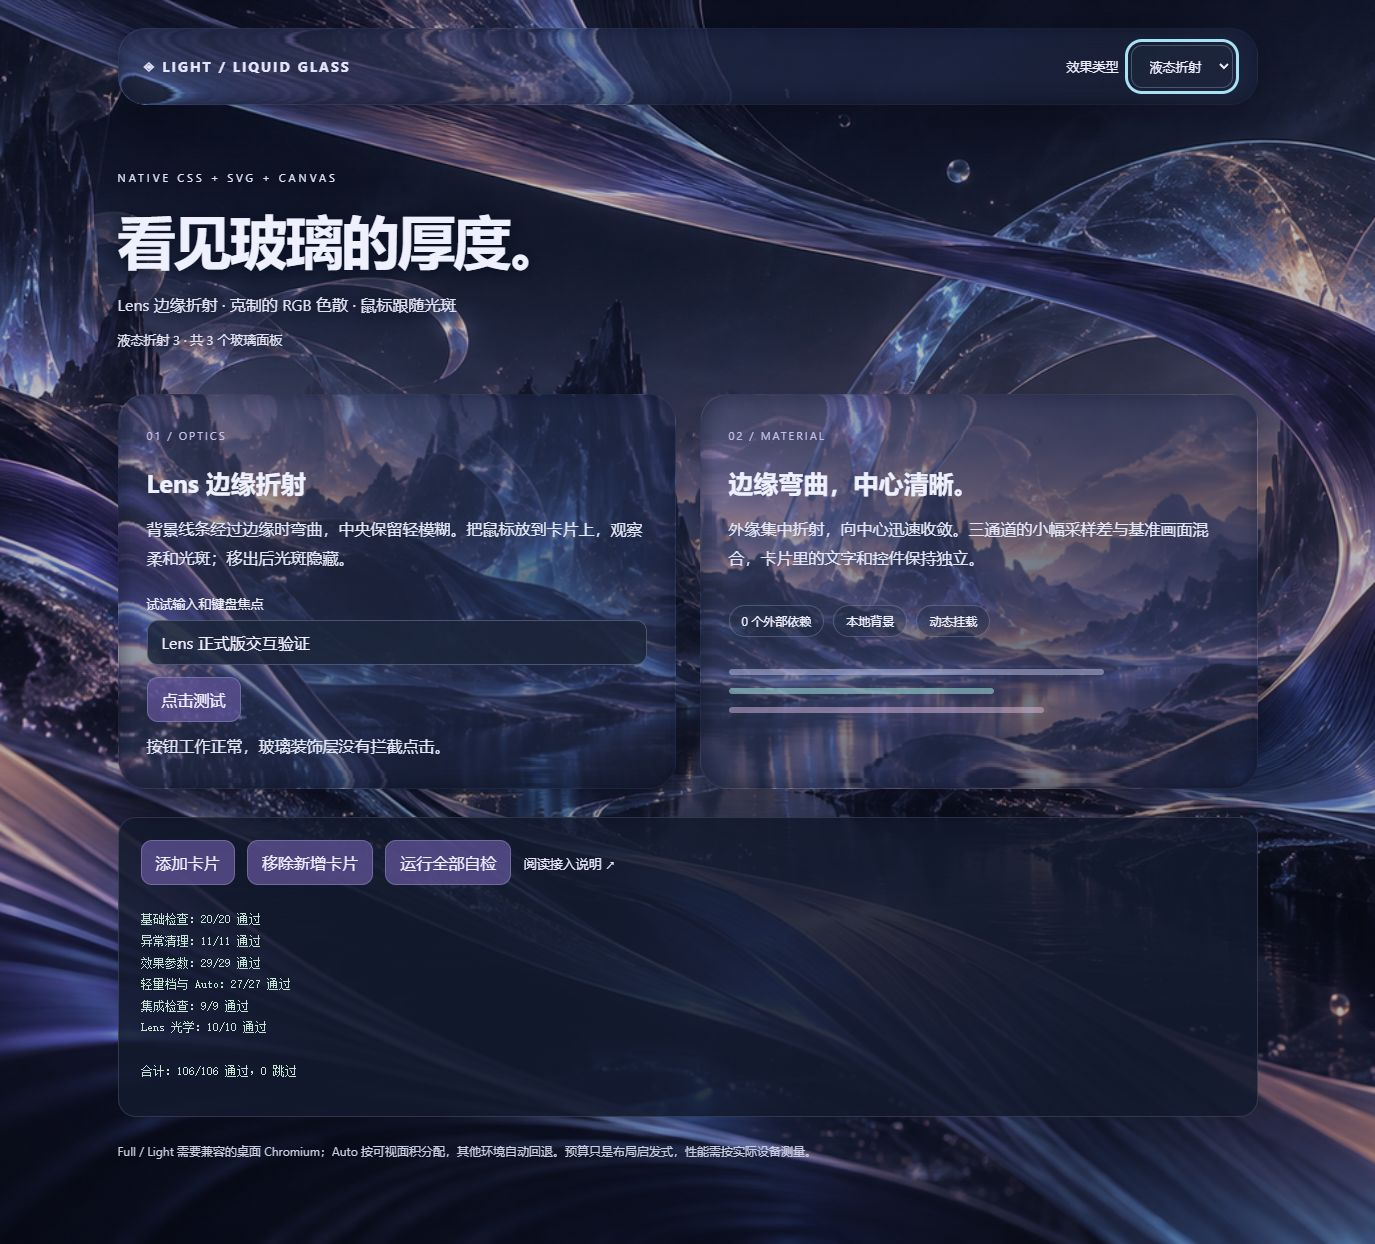
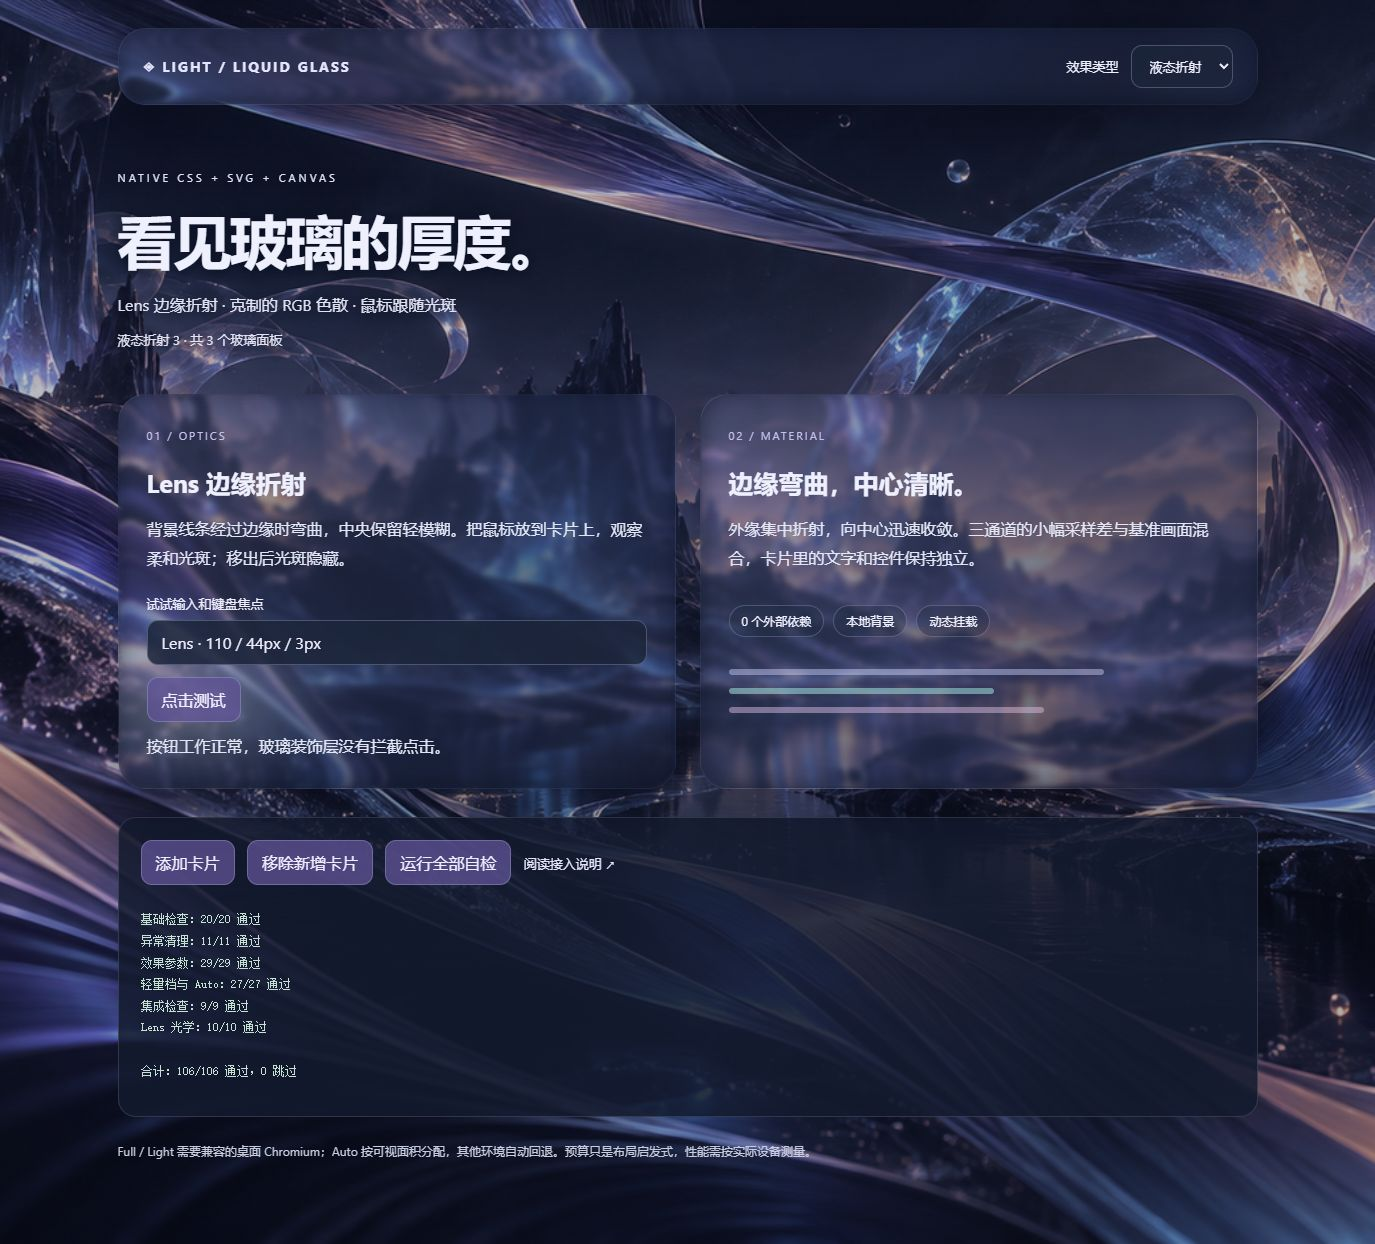
Tune Lens defaults for stronger narrow refraction and 3px blur

Changed region(s): [[0.0611, 0.4887, 0.2138, 0.6109], [0.7331, 0.6109, 0.8247, 0.6415], [0.8858, 0.0305, 0.9164, 0.0611]]

diff --git a/demo/lens-checks.js b/demo/lens-checks.js
@@ -28,26 +28,26 @@ export async function runLensChecks(output) {
     const ctx = canvas.getContext('2d', { willReadFrequently: true }); ctx.drawImage(image, 0, 0);
     const pixels = ctx.getImageData(0, 0, 320, 220).data;
     const green = y => pixels[(y * 320 + 160) * 4 + 1];
-    // 像素中心距边缘 .5px / 29.5px，带宽 58px，固定样本防止退回宽弧面。
-    check('Lens 外缘采样符合圆形曲线', green(0) === 218);
-    check('Lens 中段采样迅速收敛', green(29) === 141);
+    // 像素中心距边缘 .5px / 29.5px，带宽 44px，固定样本防止退回宽弧面。
+    check('Lens 外缘采样符合圆形曲线', green(0) === 216);
+    check('Lens 中段采样迅速收敛', green(29) === 134);
     const scales = () => [...filterOf(card).querySelectorAll('feDisplacementMap')].map(n => Number(n.getAttribute('scale')));
     const blend = () => filterOf(card).lastElementChild;
     const full = scales();
-    check('默认色散保持绿色基准且总分离低于 0.33', full.length === 3 && full[0] < 96 && full[1] === 96 && full[2] > 96 && full[2] - full[0] < .33);
+    check('默认色散保持绿色基准且总分离低于 0.37', full.length === 3 && full[0] < 110 && full[1] === 110 && full[2] > 110 && full[2] - full[0] < .37);
     check('默认只混入 5.6% RGB 色散', blend().getAttribute('in') === 'shift1' && blend().getAttribute('in2') === 'rgb'
       && Math.abs(Number(blend().getAttribute('k3')) - .056) < 1e-8
       && Math.abs(Number(blend().getAttribute('k2')) - .944) < 1e-8);
     const builds = api.getState().mapBuilds;
     api.setQuality('light');
-    check('Light 仅保留基准位移', scales().length === 1 && scales()[0] === 96 && !filterOf(card).querySelector('feComposite'));
+    check('Light 仅保留基准位移', scales().length === 1 && scales()[0] === 110 && !filterOf(card).querySelector('feComposite'));
     api.setQuality('full');
     check('切回 Full 恢复受控混合且复用贴图', blend().getAttribute('in') === 'shift1' && api.getState().mapBuilds === builds);
     api.destroy(); api = createLiquidGlass({ root: host, quality: 'full', optics: { dispersion: 0 } });
-    check('零色散完全使用基准画面', scales().every(scale => scale === 96) && Number(blend().getAttribute('k3')) === 0);
+    check('零色散完全使用基准画面', scales().every(scale => scale === 110) && Number(blend().getAttribute('k3')) === 0);
     api.destroy(); api = createLiquidGlass({ root: host, quality: 'full', optics: { dispersion: 50 } });
     const max = scales();
-    check('最高色散总分离不超过 1.152 且混入 20%', max.length === 3 && Math.abs(max[2] - max[0] - 1.152) < 1e-8
+    check('最高色散总分离不超过 1.32 且混入 20%', max.length === 3 && Math.abs(max[2] - max[0] - 1.32) < 1e-8
       && Number(blend().getAttribute('k3')) === .2 && Number(blend().getAttribute('k2')) === .8);
   } catch (error) { check('Lens 自检无未处理异常：' + error.message, false); }
   finally { api?.destroy(); host.remove(); }

diff --git a/demo/parameters-checks.js b/demo/parameters-checks.js
@@ -70,7 +70,7 @@ export async function runParameterChecks(output) {
   };
   const green = (data, width, x, y) => data[(y * width + x) * 4 + 1];
   const defaultScales = values => values.length === 3 && values.every((value, i) =>
-    Math.abs(Number(value) - [95.83872, 96, 96.16128][i]) < 1e-8);
+    Math.abs(Number(value) - [109.8152, 110, 110.1848][i]) < 1e-8);
   const opticsRun = async (width, height, optics) => {
     closeActive();
     active = await mount(width, height, optics);
@@ -111,19 +111,19 @@ export async function runParameterChecks(output) {
     if (!supportsFull) {
       skip('optics 与位移贴图检查', '当前环境回退为 ' + base.mode + '，未执行 Full 路径');
     } else {
-      check('默认 Lens 强度 95.83872/96/96.16128', defaultScales(base.scales), base.scales.join(',') || '缺少滤镜');
+      check('默认 Lens 强度 109.8152/110/110.1848', defaultScales(base.scales), base.scales.join(',') || '缺少滤镜');
       if (!base.map) {
         skip('默认位移贴图', '贴图不可解码或不是 1:1');
       } else {
         const middle = Math.floor(base.width / 2);
-        check('默认 58px 边缘带在 40px 处生效', green(base.map, base.width, middle, 40) !== 128);
-        check('默认 58px 边缘带在 70px 处归零', green(base.map, base.width, middle, 70) === 128);
+        check('默认 44px 边缘带在 30px 处生效', green(base.map, base.width, middle, 30) !== 128);
+        check('默认 44px 边缘带在 50px 处归零', green(base.map, base.width, middle, 50) === 128);
         const center = (Math.floor(base.height / 2) * base.width + middle) * 4;
         check('贴图中心与 Alpha 保持中性', base.map[center] === 128 && base.map[center + 1] === 128
           && base.map[center + 2] === 128 && base.map[center + 3] === 255);
       }
 
-      const explicit = await opticsRun(300, 200, { refraction: 96, dispersion: 14, edgeWidth: 58 });
+      const explicit = await opticsRun(300, 200, { refraction: 110, dispersion: 14, edgeWidth: 44 });
       check('显式默认值强度一致', defaultScales(explicit.scales), explicit.scales.join(','));
       check('显式默认值复现默认贴图', !!explicit.map && !!base.map
         && explicit.map.length === base.map.length

diff --git a/glass.js b/glass.js
@@ -6,9 +6,9 @@ const FULL_AREA_BUDGET = 400000;
 const MAX_PANEL_AREA = 1200000;
 const VIEWPORT_REFRESH_MS = 120;
 const OPTICS = {
-  refraction: {fallback: 96, min: 0, max: 200},
+  refraction: {fallback: 110, min: 0, max: 200},
   dispersion: {fallback: 14, min: 0, max: 50},
-  edgeWidth: {fallback: 58, min: 1, max: 120},
+  edgeWidth: {fallback: 44, min: 1, max: 120},
 };
 const owners = new WeakMap();
 let uid = 0;
@@ -40,7 +40,7 @@ function normalizeOptics(input) {
  * Inward sampling limits transparent boundary artifacts in tightly cropped filters.
  * RGB R/G encode horizontal/vertical displacement; sRGB color space is required.
  */
-function makeDisplacementMap(w, h, radius, edgeWidth = 58, scale = 1) {
+function makeDisplacementMap(w, h, radius, edgeWidth = 44, scale = 1) {
   const canvas = document.createElement('canvas');
   canvas.width = w;
   canvas.height = h;
@@ -256,7 +256,7 @@ export function createLiquidGlass(options = {}) {
       record.map.setAttribute('width', w); record.map.setAttribute('height', h);
       record.signature = signature;
       // 中央清晰，只有贴图边缘参与折射；文字不经过滤镜。
-      el.style.setProperty('backdrop-filter', 'url("#' + record.id + '") blur(var(--lg-center-blur, .6px)) saturate(120%)');
+      el.style.setProperty('backdrop-filter', 'url("#' + record.id + '") blur(var(--lg-center-blur, 3px)) saturate(120%)');
       el.style.setProperty('-webkit-backdrop-filter', el.style.getPropertyValue('backdrop-filter'));
     } catch (error) {
       record.failed = true; dropFilter(record); el.dataset.lgMode = 'frost';

diff --git a/demo/quality-checks.js b/demo/quality-checks.js
@@ -58,9 +58,9 @@ export async function runQualityChecks(output) {
           primitives.length === 2 && primitives[0] === 'feimage' && primitives[1] === 'fedisplacementmap',
           primitives.join(','));
         const displacement = lightFilter?.querySelector('feDisplacementMap');
-        check('light 单次采样 SourceGraphic 且 scale=96',
+        check('light 单次采样 SourceGraphic 且 scale=110',
           displacement?.getAttribute('in') === 'SourceGraphic' && displacement?.getAttribute('in2') === 'map'
-          && displacement?.getAttribute('scale') === '96' && displacement?.getAttribute('xChannelSelector') === 'R'
+          && displacement?.getAttribute('scale') === '110' && displacement?.getAttribute('xChannelSelector') === 'R'
           && displacement?.getAttribute('yChannelSelector') === 'G');
         check('light 不做通道拆分或颜色合成',
           !lightFilter?.querySelector('feColorMatrix') && !lightFilter?.querySelector('feComposite'));

diff --git a/demo/integration-checks.js b/demo/integration-checks.js
@@ -46,8 +46,8 @@ export async function runIntegrationChecks(output) {
     context.drawImage(image, 0, 0);
     const pixels = context.getImageData(0, 0, 600, 600).data;
     const green = y => pixels[(y * 600 + 300) * 4 + 1];
-    check('降采样后 40 CSS px 处仍有弯曲', green(30) !== 128);
-    check('降采样后 70 CSS px 处已归零', green(52) === 128);
+    check('降采样后 30 CSS px 处仍有弯曲', green(22) !== 128);
+    check('降采样后 50 CSS px 处已归零', green(37) === 128);
     api.destroy();
 
     const nativeContext = HTMLCanvasElement.prototype.getContext;

diff --git a/README.md b/README.md
@@ -42,9 +42,9 @@ A detailed backdrop makes refraction easier to see. The stylesheet only targets 
 
 `createLiquidGlass({ root, quality, optics, onChange })` returns `setQuality()`, `refresh()`, `getState()` and `destroy()`. Quality can be `auto`, `full`, `light`, `frost` or `solid`. Full and Light fall back when the environment cannot use refraction.
 
-`optics` adjusts the shape of the effect: `refraction` (default 96, range 0 to 200), `dispersion` (14, 0 to 50) and `edgeWidth` (58, 1 to 120). Only finite numbers are accepted. Strings, `NaN`, `Infinity` and other non-numbers throw a `TypeError` before the controller creates any resource; finite values are clamped to the range. `edgeWidth` is a CSS-pixel band, including when a large panel rasterizes its displacement map at a lower resolution.
+`optics` adjusts the shape of the effect: `refraction` (default 110, range 0 to 200), `dispersion` (14, 0 to 50) and `edgeWidth` (44, 1 to 120). Only finite numbers are accepted. Strings, `NaN`, `Infinity` and other non-numbers throw a `TypeError` before the controller creates any resource; finite values are clamped to the range. `edgeWidth` is a CSS-pixel band, including when a large panel rasterizes its displacement map at a lower resolution.
 
-Lens is now the only optical model; the previous broad curve has been removed. With `D = dispersion / 50` and channel indices 0, 1, 2, scales are `refraction * (1 + (channel - 1) * D * 0.006)`, giving approximately 95.83872/96/96.16128 by default. The RGB result is blended into the green-channel baseline with weight `0.20 * D` (zero when D ≤ 0.001), or 5.6% by default. Parameter names and ranges are retained, but dispersion values now have a different visual meaning.
+Lens is now the only optical model; the previous broad curve has been removed. With `D = dispersion / 50` and channel indices 0, 1, 2, scales are `refraction * (1 + (channel - 1) * D * 0.006)`, giving approximately 109.8152/110/110.1848 by default. The RGB result is blended into the green-channel baseline with weight `0.20 * D` (zero when D ≤ 0.001), or 5.6% by default. Parameter names and ranges are retained, but dispersion values now have a different visual meaning.
 
 Set `data-liquid-glass="frost"` to keep a particular panel frosted. Use one controller per container; another controller will skip elements that already have an owner. The root itself is included when it carries the marker.
 
@@ -54,7 +54,7 @@ The first `onChange` runs synchronously during construction. If it or setup thro
 
 The engine does not read application storage or save preferences. `demo.js` contains the selector and localStorage example.
 
-CSS variables are `--lg-radius` (28px), `--lg-center-blur` (.6px), `--lg-frost-blur` (6px), `--lg-tint`, `--lg-solid`, `--lg-glow-width` (210px), `--lg-glow-height` (130px), `--lg-glow-opacity` (1). The default edge band is up to 58 CSS pixels. Full examples are in the [Chinese guide](README.zh-CN.md).
+CSS variables are `--lg-radius` (28px), `--lg-center-blur` (3px), `--lg-frost-blur` (6px), `--lg-tint`, `--lg-solid`, `--lg-glow-width` (210px), `--lg-glow-height` (130px), `--lg-glow-opacity` (1). The default edge band is up to 44 CSS pixels. Full examples are in the [Chinese guide](README.zh-CN.md).
 
 ## Browser checks
 
@@ -69,7 +69,7 @@ The module reports PASS/FAIL/SKIP lines for optics validation, clamping, map edg
 
 ## How it works
 
-Light uses one displacement pass at `optics.refraction` (default 96), sharing the same curved-edge bitmap with Full. Full uses three passes for RGB dispersion. Switching modes reuses the bitmap.
+Light uses one displacement pass at `optics.refraction` (default 110), sharing the same curved-edge bitmap with Full. Full uses three passes for RGB dispersion. Switching modes reuses the bitmap.
 
 Auto assigns Full to at most 3 panels per controller, within a combined viewport-clipped area of 400,000 CSS pixels. Larger visible areas take priority; ties keep mount order. Other visible panels use Light, while offscreen panels use Frost. Scrolling and viewport resizing schedule a shared refresh after 120ms without further events. The budget measures viewport intersection, without checking occlusion, CSS visibility or ancestor clipping. It is a layout heuristic and makes no frame-rate promise. Manual Full and Light bypass this budget while keeping the compatibility and 1,200,000-pixel safety limit.
 
@@ -77,7 +77,7 @@ Canvas generates a displacement map when geometry changes. With normalized inwar
 
 A controller shares one ResizeObserver and one pointer animation frame. It caches up to eight maps by size, radius and edge width, so repeated refreshes and mode changes can reuse them. Map generation is capped at approximately 360,000 pixels; panels larger than 1,200,000 CSS pixels fall back to frost. `getState().opticalModel` is always `lens`.
 
-Run `node demo/benchmark.mjs` to check the current Lens map and measure CPU pixel math and array writes. PNG encoding, compositing and GPU sampling are excluded. Full and Light apply browser Gaussian blur after refraction, at .6px by default. This does not reproduce the native finite 25-tap blur kernel or claim pixel equality with native rendering. Ordinary lists can use `data-liquid-glass="frost"`.
+Run `node demo/benchmark.mjs` to check the current Lens map and measure CPU pixel math and array writes. PNG encoding, compositing and GPU sampling are excluded. Full and Light apply browser Gaussian blur after refraction, at 3px by default. This does not reproduce the native finite 25-tap blur kernel or claim pixel equality with native rendering. Ordinary lists can use `data-liquid-glass="frost"`.
 
 ## Compatibility
 

diff --git a/demo/VALIDATION.md b/demo/VALIDATION.md
@@ -6,7 +6,7 @@
 
 用户选定 B 的圆形 Lens 曲线与受控色散，旧宽弧面和直接 RGB 分离实现已移除。Full 和 Light 均使用 Lens 贴图，原有双文件接入、参数范围、质量档位和兼容性回退保留。
 
-默认 refraction=96、dispersion=14、edgeWidth=58。三个通道位移约为 95.83872/96/96.16128，RGB 结果按 5.6% 与绿色基准采样混合；默认仍在折射后使用 .6px 浏览器高斯模糊。没有移植 native 的有限 25 点采样核、投影或 depth 效果，不能当作 native 逐像素一致的复现。
+默认 refraction=110、dispersion=14、edgeWidth=44。三个通道位移约为 109.8152/110/110.1848，RGB 结果按 5.6% 与绿色基准采样混合；默认仍在折射后使用 3px 浏览器高斯模糊。没有移植 native 的有限 25 点采样核、投影或 depth 效果，不能当作 native 逐像素一致的复现。
 
 ## 已执行
 
@@ -18,9 +18,9 @@
 - 实际页面中输入和按钮可交互；切换 Light 后内容保留，新增卡片后显示 4 个 Light 面板，移除后切回 Full 显示 3 个面板。
 - 当前截图为 `preview.png`：Full 模式，真实输入与按钮反馈、106/106 自检结果均可见；未添加固定高光环或静态亮边。
 
-## 与已验收 B 的一致性
+## 原始 B 迁移时的一致性记录
 
-使用模拟 Canvas 截取像素数组，对当前正式实现与已验收 B 实验的 Lens 分支做逐字节比较，6/6 组 RGBA 完全相同：
+在修改默认值之前，使用模拟 Canvas 对正式实现与 B 实验做逐字节比较，以下显式几何参数的 6/6 组 RGBA 完全相同。此处保留迁移记录；当前默认边缘带宽已改为 44px：
 
 | 贴图尺寸 | 圆角 | edgeWidth | CSS 缩放比例 |
 | --- | ---: | ---: | ---: |
@@ -39,7 +39,7 @@
 node demo/benchmark.mjs
 ```
 
-脚本直接提取当前 Lens 贴图函数，检查四组尺寸的中心、固定曲线样本、蓝通道和 Alpha；再预热 3 次、对 600×600 采样 9 次，报告中位数。此次中位数约 4.03ms，仅作本机记录。
+脚本直接提取当前 Lens 贴图函数，检查四组尺寸的中心、固定曲线样本、蓝通道和 Alpha；再预热 3 次、对 600×600 采样 9 次，报告中位数。本次默认参数调整后中位数约 3.95ms，仅作本机记录。
 
 该计时只包含像素数学及数组写入，不包含 PNG 编码、浏览器合成或 GPU 采样；不能据此推导帧率。旧宽弧面与旧差分实现的性能对比已移除，历史 40% 提速数据不适用于当前版本。
 
